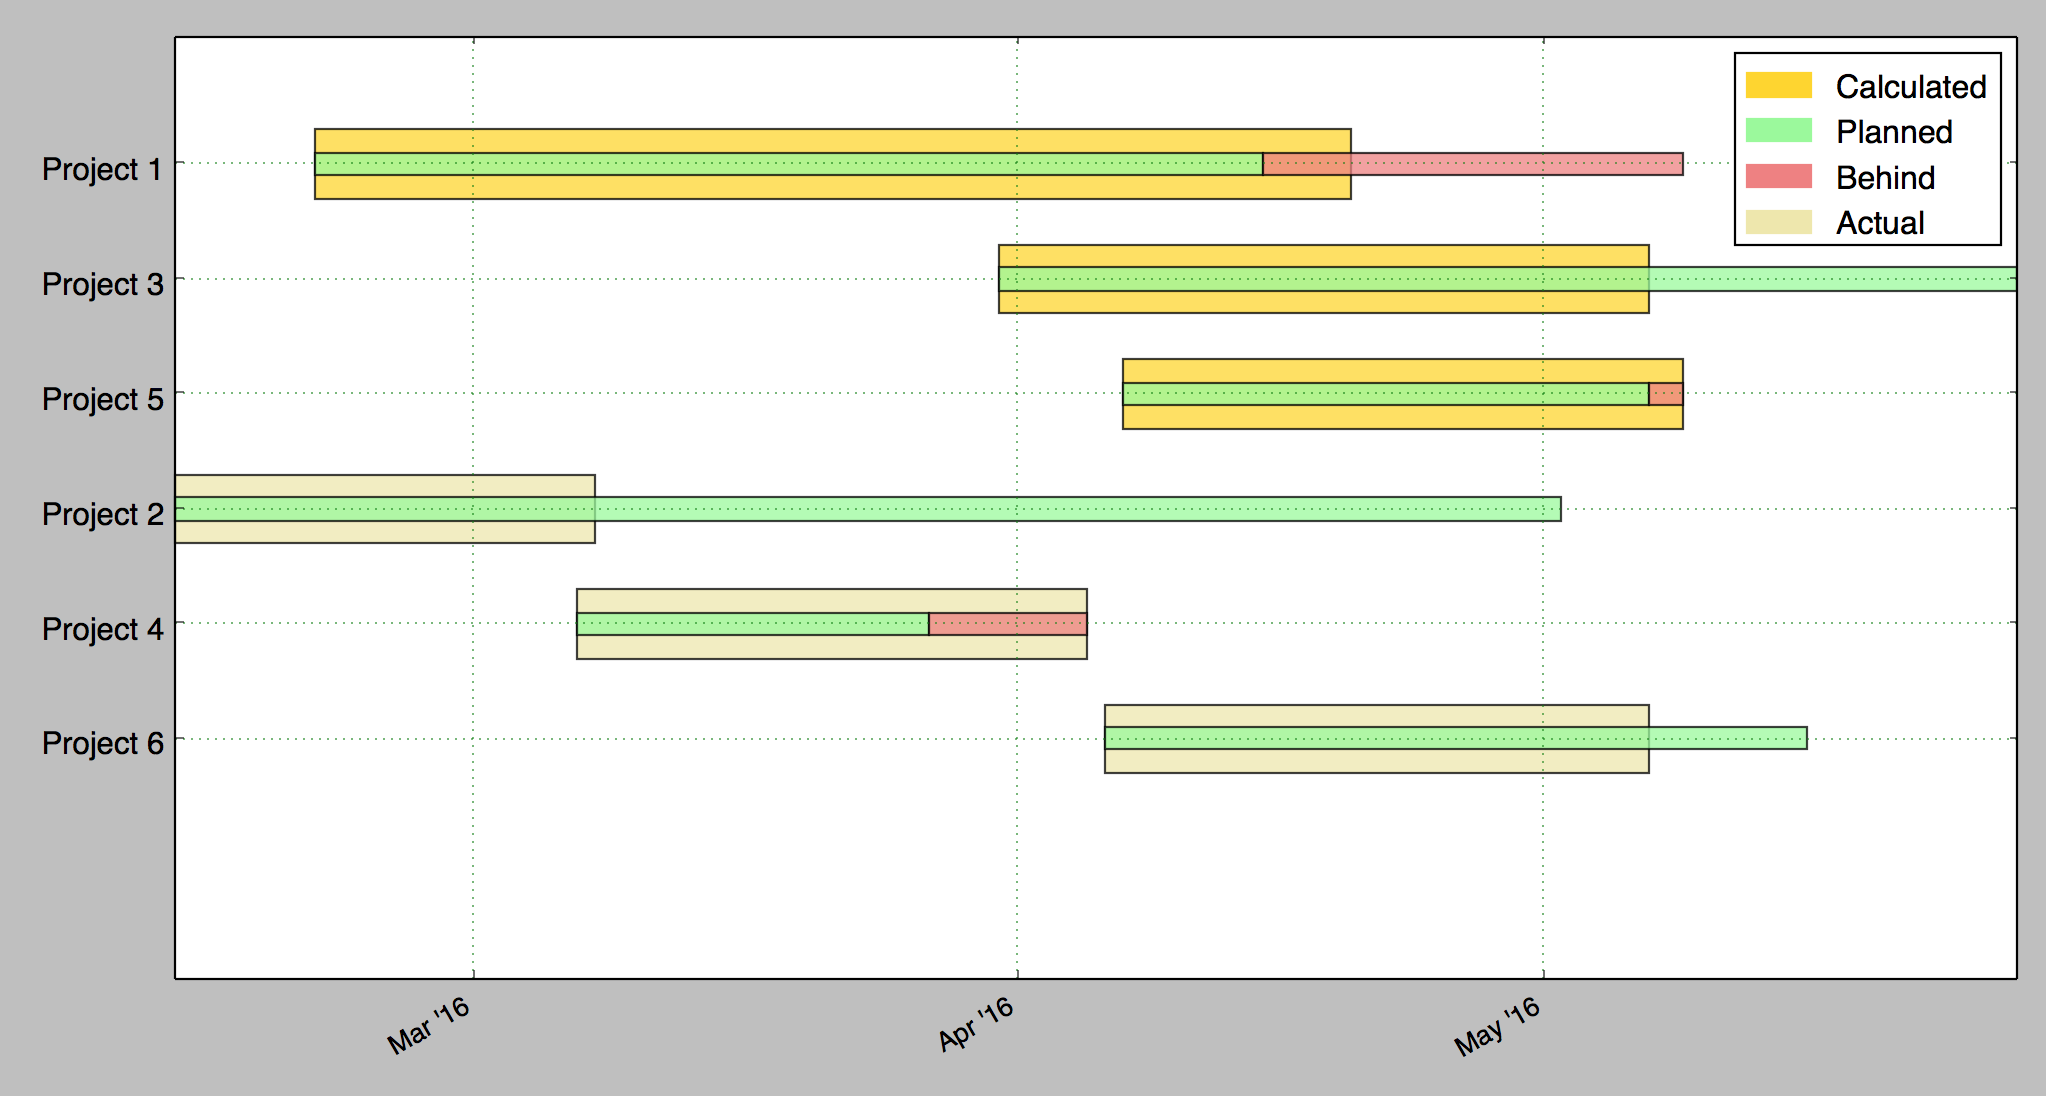
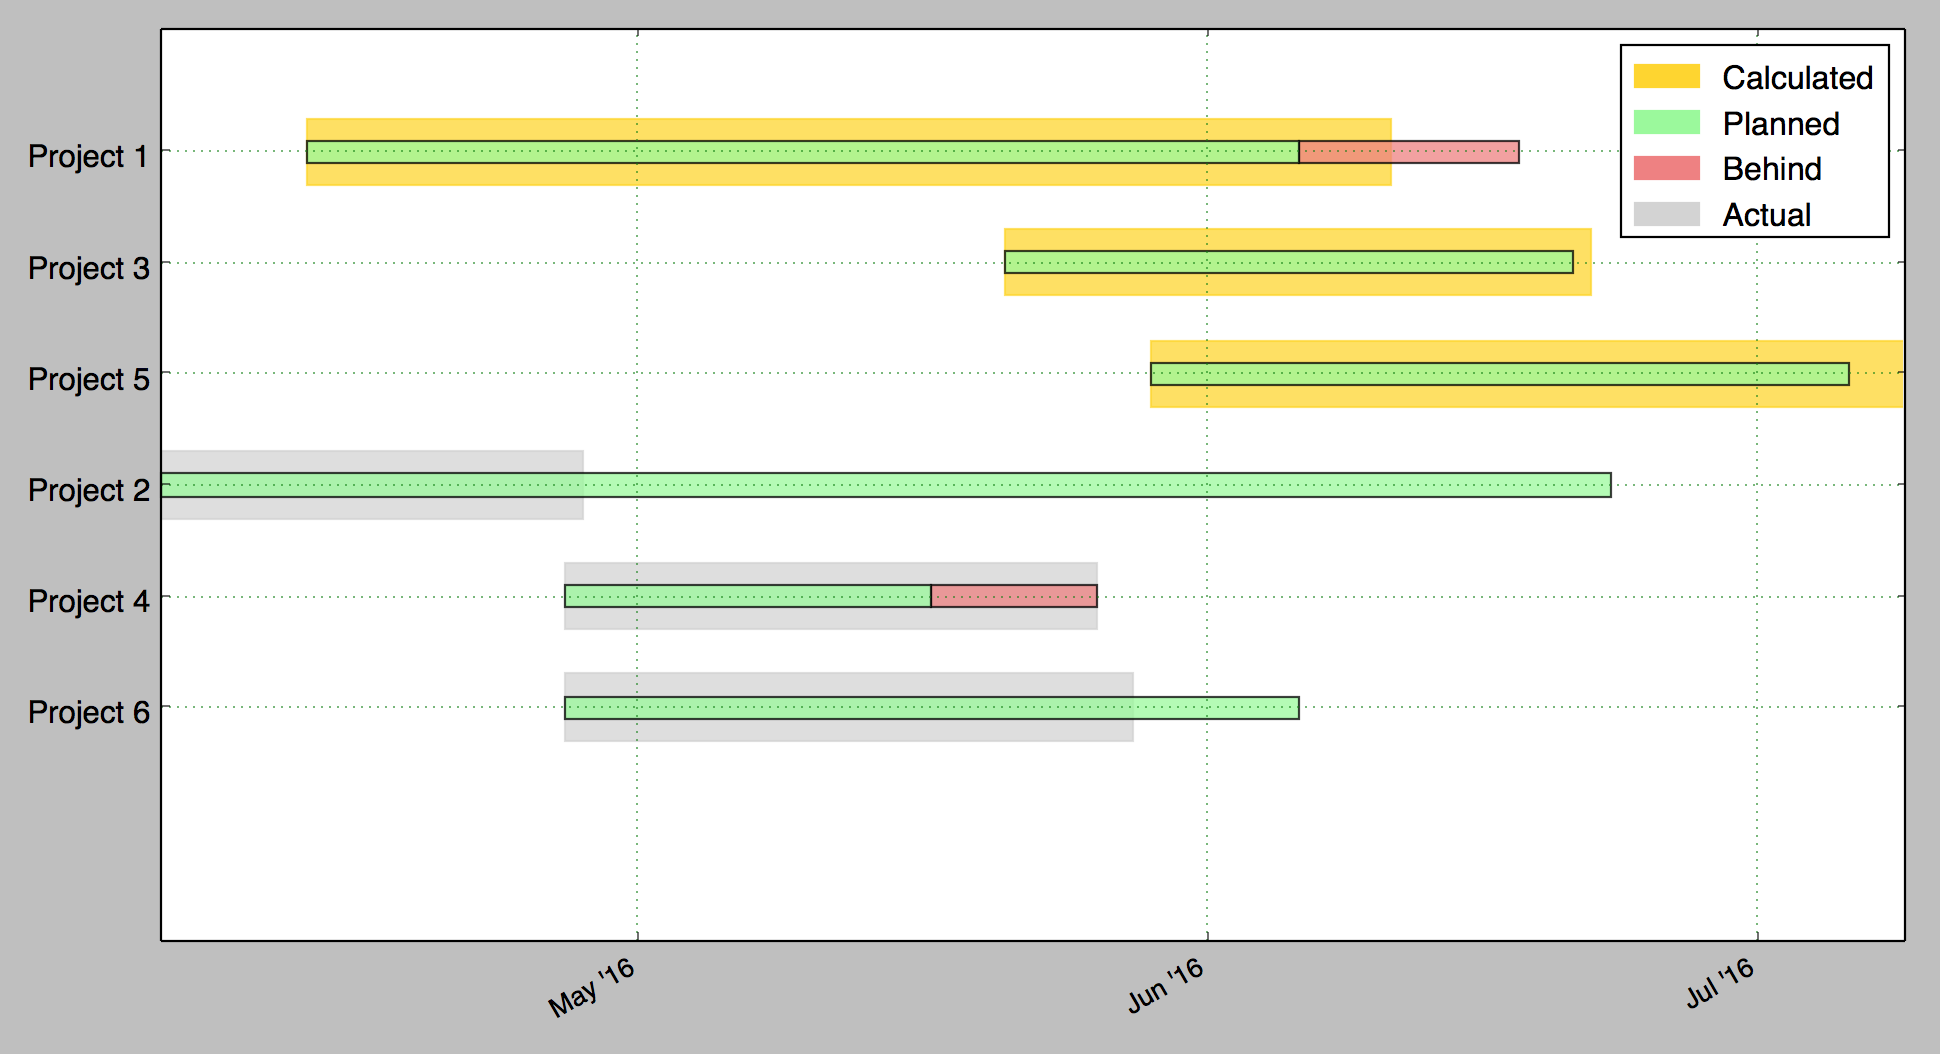
Resolving issue 4 - color scheme

diff --git a/gantt_chart.py b/gantt_chart.py
@@ -54,7 +54,7 @@ def generate_gantt_chart():
 	calculated = mpatches.Patch(color="gold", label="Calculated")
 	planned = mpatches.Patch(color="palegreen", label="Planned")
 	behind = mpatches.Patch(color="lightcoral", label="Behind")
-	actual = mpatches.Patch(color="palegoldenrod", label="Actual")
+	actual = mpatches.Patch(color="lightgrey", label="Actual")
 
 	colors = [calculated,planned,behind,actual]
 	labels = [color.get_label() for color in colors]
@@ -67,13 +67,13 @@ def generate_gantt_chart():
 		start_date,exp_end_date,est_end_date,act_end_date = task_dates[ylabels[i+1]]
 		if start_date != "":
 			if est_end_date != "":
-				ax.barh((i*0.5)+0.95, est_end_date - start_date, left=start_date, height=0.3, align='center', color='gold', alpha = 0.75)
+				ax.barh((i*0.5)+0.95, est_end_date - start_date, left=start_date, height=0.3, align='center', color='gold', alpha = 0.75, edgecolor='gold')
 			if exp_end_date != "":
 				if act_end_date == "":
 					if today > exp_end_date:
 						ax.barh((i*0.5)+0.95, today - exp_end_date, left=exp_end_date, height=0.1, align='center', color='lightcoral', alpha = 0.75)
 				else:
-					ax.barh((i*0.5)+0.95, act_end_date - start_date, left=start_date, height=0.3, align='center', color='palegoldenrod', alpha = 0.75)
+					ax.barh((i*0.5)+0.95, act_end_date - start_date, left=start_date, height=0.3, align='center', color='lightgrey', edgecolor='lightgrey', alpha = 0.75)
 					if act_end_date > exp_end_date:
 						ax.barh((i*0.5)+0.95, act_end_date - exp_end_date, left=exp_end_date, height=0.1, align='center', color='lightcoral', alpha = 0.75)
 				ax.barh((i*0.5)+0.95, exp_end_date - start_date, left=start_date, height=0.1, align='center', color='palegreen', alpha = 0.75)
